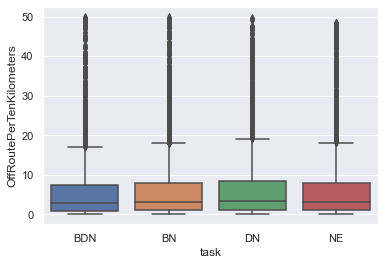
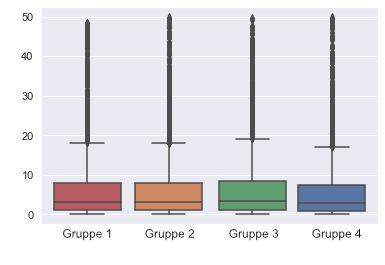
#15 Added first iteration

diff --git a/contents/06_model_evaluation/23_study_results.tex b/contents/06_model_evaluation/23_study_results.tex
@@ -1,24 +1,147 @@
 \subsection{Ergebnisse}
 
-\subsubsection*{Teilnehmer}
+\subsubsection*{Übersicht}
 
+\begin{longtable}{|l|l|c|}
+    \hline
+                        &           & \textbf{Anzahl} \\ \hline
+    Teilnehmer          & insgesamt & 9745 \\
+                        & gefiltert & 4015 \\ \hline
+    Gefahrene Routen    & insgesamt & 41540 \\
+                        & gefiltert & 16531 \\ \hline
+\caption{}
+\label{tab:study_user_overview}
+\end{longtable}
 
+Um bei der Analyse der Daten, Nutzer auszuschließen, die eine Navigation nur gestartet haben, um sich diese anzusehen, aber NUNAV nicht aktiv während einer Autofahrt genutzt haben werden Routen, die kürzer als 4 Kilometer sind herausgefiltert. Dies verhindert außerdem, dass das gelangen zur ersten Route, sowie das Suchen von Parkplätzen einen zu großen Einfluss auf die Daten hat.
 
-\subsubsection*{Einfluss der Erklärungen auf die }
+\subsubsection{Einfluss der Erklärungen}
 
-\begin{figure}[bth]
-    \text{Evaluation der Positionsbestimmung}\\
-    \subfloat[Berechnete und reale Koordinaten pro Achse]
-    {\includegraphics[width=.47\linewidth]{contents/06_model_evaluation/res/Offroute_Distribution_NE.png}}
-    \hspace{5mm}
-    \subfloat[Berechneter und realer Abstand]
-    {
-     \includegraphics[width=.47\linewidth]{contents/06_model_evaluation/res/Offroute_Distribution_BN.png}} \\
-    \subfloat[Berechnete und reale Koordinaten]
-    {\includegraphics[width=.47\linewidth]{contents/06_model_evaluation/res/Offroute_Distribution_DN.png}}
-    \hspace{5mm}
-    \subfloat[Relativer Rechenfehler]
-    {\includegraphics[width=.47\linewidth]{contents/06_model_evaluation/res/Offroute_Distribution_BDN.png}}
-    \caption[Evaluation der Positionsbestimmung mithilfe des Coulombschen Gesetzes]{Evaluation der Positionsbestimmung mithilfe des Coulombschen Gesetzes bei Verwendung eines Magneten mit Magnetisierungsgrad N48, 8 mm Durchmesser und 20 mm Länge}
-    \label{fig:magnetEvaluation1}
+\textbf{Nutzerabweichungen von der vorgeschlagenen Route}
+
+\textbf{Hypothesen}
+
+\begin{enumerate}
+    \item Wenn der Nutzer Erklärungen erhält, dann folgt er signifikant häufiger der vorgeschlagenen Route als wenn er keine erhält.
+    \item Wenn der Nutzer einen der beiden Erklärungstypen (Algorithmus, Navigation) erhält, dann folgt er signifikant weniger der vorgeschlagenen Route als wenn er beide erhält.
+\end{enumerate}
+
+ Als Messwert wird die Anzahl der \textit{Offroutes} relativ zu Gesamtlänge der Route verwendet. Die Einheit ist Offroute pro Kilometer.
+
+\smallskip
+
+\noindent\colorbox{lightgray}{%
+    \parbox{0.975\linewidth}{
+        \textbf{Definition}
+
+        Ein \textit{Offroute} ist der Fall, dass der Nutzer sich aktuell nicht auf der vorgeschlagenen Route befindet. Konkret bedeutet dies, dass das Smartphone NUNAV eine neue Position bereitstellt und nach einer Evaluation bestimmter Kriterien festgestellt wird, dass sich der Nutzer nicht mehr auf der Route befindet. In der Regel wird dann eine neue Route vom Server angefordert.
+        
+        \textit{Zu Beachten}
+        \begin{itemize}
+            \item Bis der Nutzer eine neue Route erhält, kann es mehrere \textit{Offroutes} geben.
+            \item Es kann sein, dass der Nutzer mehrfach wieder die gleiche Route erhält.
+            \item Ein kann auch zu einem \textit{Offroute} kommen, wenn die Nutzerposition schlecht ist.
+        \end{itemize}
+    }
+}
+
+\smallskip
+
+Bei der Betrachtung der \textit{Offroutes} werden zuerst Ausreißer herausgefiltert. (Ausreißer: mehr als 3 Standardabweichungen vom Durchschnitt entfernt). Folglich sind 16366 Routen im Datensatz für die Prüfung der Hypothese verblieben.
+
+\begin{figure}[bth]!
+    \includegraphics{contents/06_model_evaluation/res/OffRoute_Result_Overview.png}
+    \caption{Anzahl der Offroutes pro Kilometer für jede Studiengruppe}
 \end{figure}
+
+\begin{longtable}{|c|c|c|c|}
+    \hline
+    \textbf{Studiengruppe}  & \textbf{Mittelwert} & \textbf{Median} & \textbf{Standardabweichung} \\ \hline
+    Gruppe 1                & 7.85 & 3.27 & 13.75 \\ \hline
+    Gruppe 2                & 8.20 & 3.30 & 14.30 \\ \hline
+    Gruppe 3                & 7.90 & 3.57 & 12.81 \\ \hline
+    Gruppe 4                & 7.48 & 2.90 & 13.74 \\ \hline
+\caption{Übersicht der Ergebnisse der Routen-Abweichungen pro Kilometer}
+\label{tab:study_offroute_results}
+\end{longtable}
+
+Um zu prüfen, ob die Unterschiede der Mittelwerte signifikant ist, muss dies mittels eines statistischen Tests überprüft werden. Da es sich um ein Experiment von mehren nicht zusammenhängenden Studiengruppen mit mehr als zwei verschiedenen Bedingungen handelt, kommen entweder ein ANOVA- oder Kruskal-Wallis-Test in Frage. Für ersteren gilt, dass die Daten gleich verteilt sein müssen. Dies wurde mittels Shapiro-Wilk-Test test geprüft. Da das Ergebnis für alle Test-Gruppen $ p = 0.000000 < 0.05 $ ist, sind die Daten nicht normal verteilt. Folglich wird zur Signifikanzprüfung der Kruskal-Wallis-Test verwendet. Aufgrund der Ergebnis von $ p = 0.000008 < 0.05 $, kann abgeleitet werden, dass ein Haupteffekt vorliegt.
+
+Für die Prüfung zwischen welchen Studiengruppen ein signifikanter Unterschied vorliegt, wird der Dunn-Test \cite{dunn1964multiple} verwendet.
+
+Dieser liefert folgende Ergebnisse:
+
+\begin{longtable}{|c|c|c|c|c|}
+    \hline
+    & \textbf{Gruppe 1} & \textbf{Gruppe 2} & \textbf{Gruppe 3} & \textbf{Gruppe 4} \\ \hline
+    \textbf{Gruppe 1}   & 1.000000 & 1.000000 & 0.219884 & 0.008222 \\ \hline
+    \textbf{Gruppe 2}   & 1.000000 & 1.000000 & 0.860586 & 0.000912 \\ \hline
+    \textbf{Gruppe 3}   & 0.219884 & 0.860586 & 1.000000 & 0.000005 \\ \hline
+    \textbf{Gruppe 4}   & 0.008222 & 0.000912 & 0.000005 & 1.000000 \\ \hline
+
+    \caption{Signifikanzniveau $ p $ im paarweisen Vergleich der Anzahl der Routenabweichungen pro Kilometer zwischen den Studiengruppen }
+    \label{tab:study_offroute_significance_results}
+\end{longtable}
+
+Auch hier wird wieder von einem Signifikanzniveau $ p < 0.05 $ ausgegangen. Folglich weichen die Nutzer der Gruppe 4 signifikant weniger von der vorgeschlagenen Route ab im Vergleich zu allen anderen Gruppen. Weitere signifikante Unterschiede lassen sich nicht erkennen.
+
+Hypothese 1 trifft zwar für das Geben aller Erklärungstypen (Gruppe 4) zu, nicht aber für die Gruppen 2 und 3. Folglich wird Hypothese 1 abgelehnt.  Hypothese 2 hat sich vollumfänglich als richtig erwiesen, da die Nutzer der Gruppe 4 sowohl signifikant weniger von der vorgeschlagenen Route abgewichen sind also auch signifikant weniger als die Nutzer der Gruppe 2.
+
+\textbf{Häufigkeit der Nutzung}
+
+\textbf{Hypothesen}
+
+\begin{enumerate}
+    \item Wenn der Nutzer Erklärungen erhält, dann verwendet er NUNAV signifikant häufiger, als wenn er keine erhält.
+    \item Wenn der Nutzer einen der beiden Erklärungstypen (Algorithmus und Navigation) erhält, dann nutzt er NUNAV signifikant seltener als wenn er beide erhält.
+\end{enumerate}
+
+Als Messwert wird die Anzahl der gefahrenen Routen genommen.
+
+Bei der Betrachtung der Anzahl der gefahrenen Routen werden zuerst Ausreißer herausgefiltert. (Ausreißer: mehr als 3 Standardabweichungen vom Durchschnitt entfernt). Folglich sind 3954 Nutzer im Datensatz für die Prüfung der Hypothesen verblieben.
+
+\begin{figure}[bth]!
+    \includegraphics{contents/06_model_evaluation/res/Usage_Result_Overview.png}
+    \caption{Anzahl der gefahrenen Routen für jede Studiengruppe}
+\end{figure}
+
+\begin{longtable}{|c|c|c|c|}
+    \hline
+    \textbf{Studiengruppe}  & \textbf{Mittelwert} & \textbf{Median} & \textbf{Standardabweichung} \\ \hline
+    Gruppe 1                & 3.43 & 2.0 & 3.49 \\ \hline
+    Gruppe 2                & 3.69 & 2.0 & 3.86 \\ \hline
+    Gruppe 3                & 3.42 & 2.0 & 3.47 \\ \hline
+    Gruppe 4                & 3.57 & 2.0 & 3.44 \\ \hline
+\caption{Übersicht der Ergebnisse der gefahrenen Routen der Nutzer}
+\label{tab:study_offroute_results}
+\end{longtable}
+
+Um zu prüfen, ob die Unterschiede der Mittelwerte signifikant ist, muss dies mittels eines statistischen Tests überprüft werden. Da es sich um ein Experiment von mehren nicht zusammenhängenden Studiengruppen mit mehr als zwei verschiedenen Bedingungen handelt, kommen entweder ein ANOVA- oder Kruskal-Wallis-Test in Frage. Für ersteren gilt, dass die Daten gleich verteilt sein müssen. Dies wurde mittels Shapiro-Wilk-Test test geprüft. Da das Ergebnis für alle Test-Gruppen $ p = 0.000000 < 0.05 $ ist, sind die Daten nicht normal verteilt. Folglich wird zur Signifikanzprüfung der Kruskal-Wallis-Test verwendet. Aufgrund des Ergebnisses von $ p = 0.197473 > 0.05 $, kann abgeleitet werden, dass kein Haupteffekt vorliegt.
+
+Da es keine signifikanten Ergebnisse gibt müssen beide Hypothesen abgelehnt werden.
+
+Bemerkung: Ich habe hier die durchschnittliche Anzahl der Routen pro Nutzer untersucht. Was aber, wenn ein Nutzer aufhört NUNAV zu benutzen während dem Test? Ich werde also noch die Gesamtzahl der gefahrenen Routen pro Nutzergruppe vergleichen. Das schicke ich dir dann Anfang der Woche.
+
+\textbf{Nutzerzufriedenheit mit der aktuellen Route}
+
+\textbf{Hypothesen}
+
+\begin{enumerate}
+    \item Wenn der Nutzer Erklärungen erhält, dann ist er zufriedener mit der Navigation.
+    \item Wenn der Nutzer einen der beiden Erklärungstypen (Algorithmus, Navigation) erhält, dann ist er weniger zufrieden mit der Navigation als wenn er beide erhält.
+\end{enumerate}
+
+Als Messwert wird eine Likert-Skala, auf der der Nutzer in Form von fünf Sternen bewerten kann, wie gut ihm die abgeschlossene Navigation gefallen hat. 
+
+\begin{figure}[bth]!
+    \includegraphics[width=\linewidth]{contents/06_model_evaluation/res/Rating_Result_Overview.pdf}
+    \caption{Durchschnittliche Bewertung der Navigation pro Nutzer  für jede Studiengruppe}
+\end{figure}
+
+Für die Prüfung zwischen welchen Studiengruppen ein signifikanter Unterschied vorliegt, wird wieder der Dunn-Test \cite{dunn1964multiple} verwendet. (P wird mit der \glqq bonferoni\grqq{}-Methode korrigiert.)
+
+Dabei kommt heraus, dass es zwischen den Gruppen 1 und 2 ($ p = 0.003027$) sowie 1 und 4 ($ p = 0.0.034375 $) einen signifikanten Unterschied gibt. Außerdem gibt es einen signifikanten Unterschied zwischen Gruppe 2 und 3 ($ p = 0.021798 $). Zusammen mit den Ergebnissen der Likert Skala, kann man also sagen, dass die Zufriedenheit der Nutzer im Vergliech zu keinen Erklärungen besser ist, wenn die Erklärungen wie in Gruppe 4 gegeben werden. Und Es kann gesagt werden, dass die Zufriedenheit bei Gruppe 2 gegenüber Gruppe 3 höher ist sowie bei Gruppe 1 gegenüber Gruppe 4. In letzterem Fall hat sich die Zufriedenheit beim Geben von Erklärungen folglich sogar verschlechtert.
+
+Da beim Geben von Erklärungen dies die Nutzerzufriedenheit nicht in jedem Fall erhöht, muss Hypothese 1 abgelehnt werden. Hypothese 2 muss ebenfalls abgelehnt werden, da es keine signifikanten Zusammenhänge zwischen den Gruppen 2 und 4 bzw. 3 und 4 gibt.
+
+Bemerkung: Hier muss ich noch mit der Anzahl der Nutzer normalisieren. Dann könnte ein Effekt auftreten.

diff --git a/contents/01_introduction/00_chapter.tex b/contents/01_introduction/00_chapter.tex
@@ -17,3 +17,5 @@ Auf der Basis der Definitionen für \textit{Erklärbarkeit} von \citeauthor[]{ch
 Dieses Modell, bestehend aus dem Überblick über die Aspekte, den Zusammenhängen und Design-Empfehlungen, wird im zweiten Teil der Arbeit auf dessen Anwendbarkeit in der Wirtschaft untersucht. Dabei werden anhand des Modells Erklärungen in ein bestehendes Navigationssystem integriert und evaluiert. Zunächst wurden dafür auf Grundlage der Ergebnisse einer Nutzer-Feedback-Analyse in einem Workshop Probleme identifiziert, welche durch die Integration von Erklärungen gelöst werden sollen. Darauf aufbauend wurden Ziele und Evaluationsmöglichkeiten der Erklärungen sowie Ideen zur Umsetzung zusammengetragen. Final wurden die integrierten Erklärungen in einer Feld-Studie analysiert. Die Ergebnisse aus dieser Anwendung des Modells wurden abschließend in die in dieser Arbeit vorgestellten Version des Modells überführt.
 
 Zusammenfassend bietet diese Arbeit ein Modell, welches die Integration von Erklärungen in bestehende Software erleichtert und als Einstiegspunkt für die Entwicklung detaillierter Modelle für verschiedene Kontexte gesehen werden kann. Darüber hinaus kann es als Basis für die Entwicklung eines Prozesses für die Beachtung von \textit{Erklärbarkeit} im Requirements-Engineering- und Entwicklungs-Prozess dienen.
+
+Im nächsten Kapitel (Kapitel 2) werden die Grundlagen von Erklärbarkeit und NFRs im Allgemeinen sowie verwandte Arbeiten vorgestellt. Kapitel 3 definiert das Forschungsziel und beschreibt die verwendeten Methoden. Die Anwendung dessen folgt in den Kapitel 4 - 6. Wobei Kapitel 4 die durchgeführte Literaturrecherche, Kapitel 5 das resultierende Modell und Kapitel 6 die Evaluation des Modells mithilfe von Nutzern darstellt. Abschließend werden alle Ergebnisse in den Kapitel 7 - 8 zunächst diskutiert, dann auf ihre Allgemeingültigkeit hin untersucht und zum Schluss zusammengefasst.

diff --git a/contents/06_model_evaluation/21_study_structure.tex b/contents/06_model_evaluation/21_study_structure.tex
@@ -1,1 +1,20 @@
 \subsection{Studienaufbau}
+
+\subsubsection*{Studiengruppen}
+
+\begin{itemize}
+    \item \textbf{Gruppe 1}: Nutzer, die keine Erklärungen erhalten
+    \item \textbf{Gruppe 2}: Nutzer, die Erklärungen zum Routing-Algorithmus erhalten
+    \item \textbf{Gruppe 3}: Nutzer, die Erklärungen basierend auf der aktuellen Navigation erhalten
+    \item \textbf{Gruppe 4}: Nutzer, die die Erklärungen von Gruppe 2 und 3 erhalten
+\end{itemize}
+
+In diesem Entwurf folgend abgekürzt:
+
+- Gruppe 1 - BG: User got no explanations (base group).
+
+- Gruppe 2 - AE: User got explanations about the routing algorithm (alogorithm explanations).
+
+- Gruppe 3 - NE: User got explanations depending on the active navigation (navigation explanations).
+
+- Gruppe 4 - GE: User got both types of explanations (grouped explanations).
